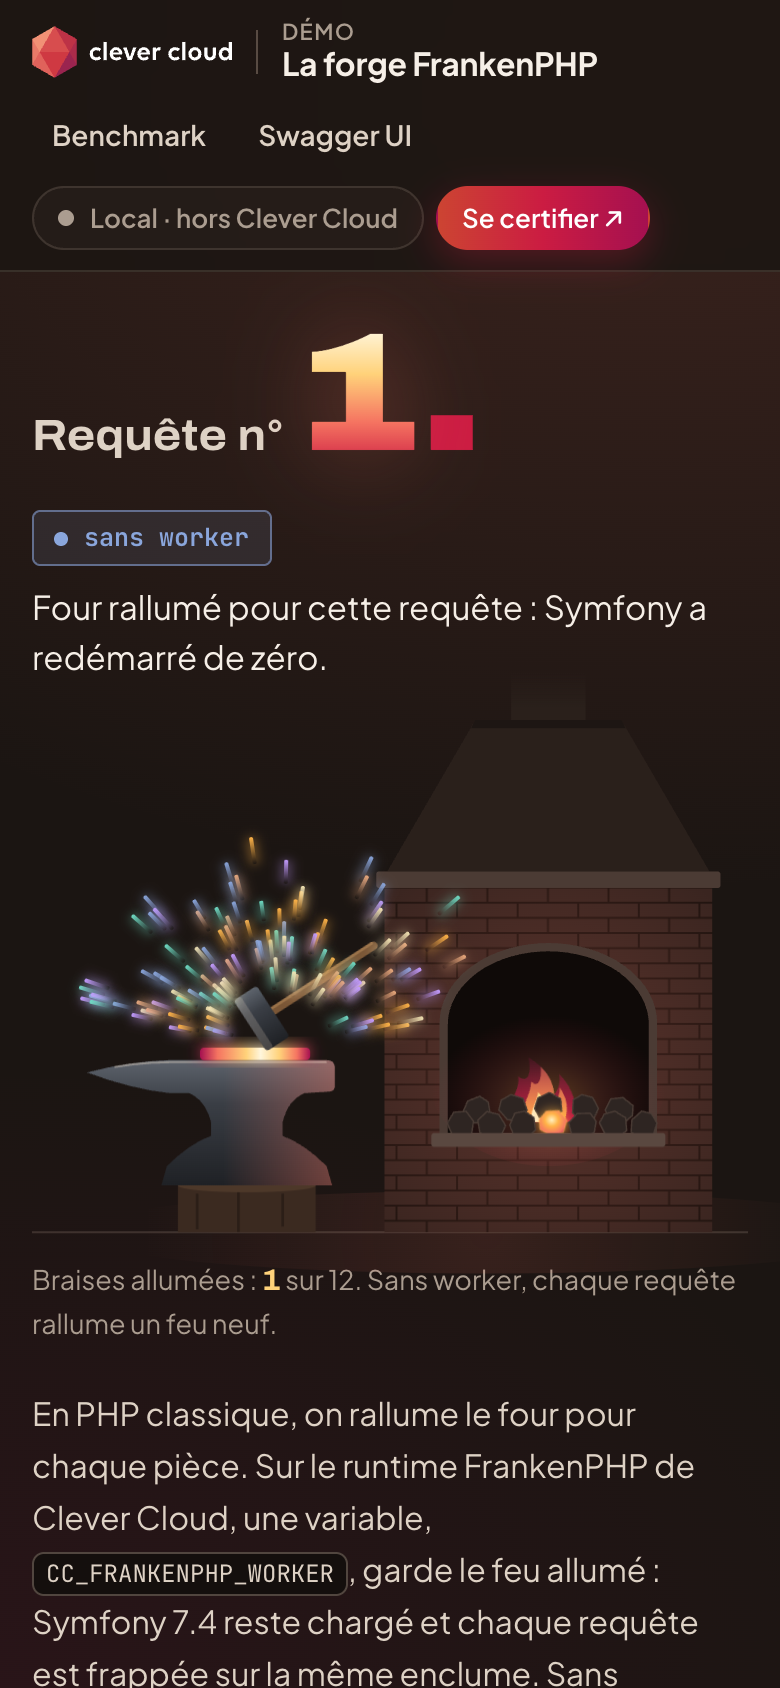
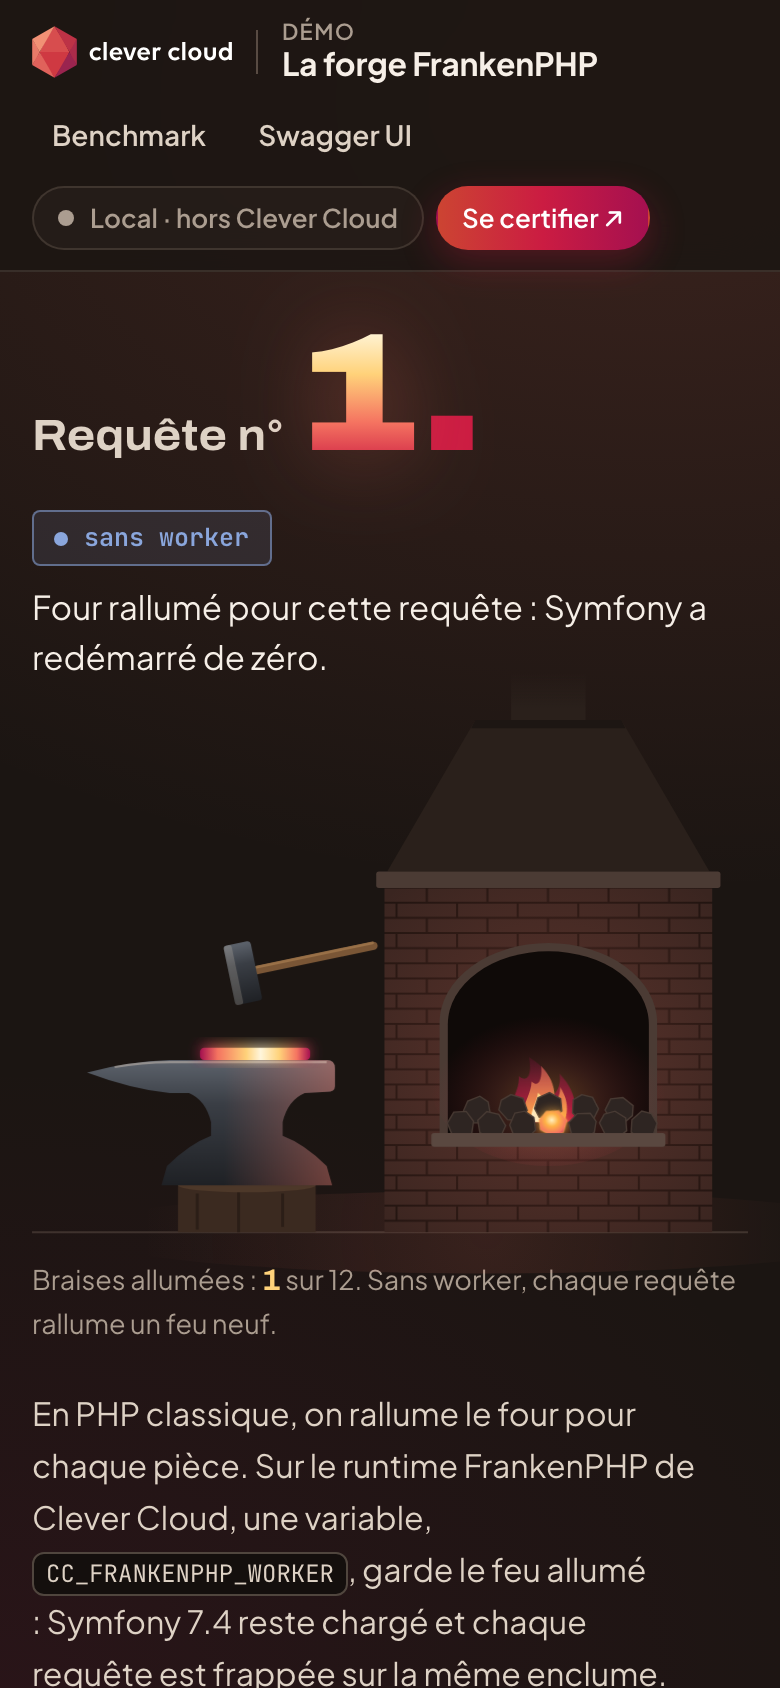
Visual review fixes and a 10-second animated tour

Changed region(s): [[0.0308, 0.955, 0.8923, 1.0], [0.0923, 0.4929, 0.5846, 0.6161]]

diff --git a/public/demo.css b/public/demo.css
@@ -95,14 +95,14 @@ code { font-family: var(--cc-mono); font-size: 0.92em; }
 .fp-chip::before { content: ""; width: 7px; height: 7px; border-radius: 50%; background: var(--wc); box-shadow: 0 0 8px var(--wc); }
 .fp-chip.is-cold { --wc: var(--f-bleui); }
 .fp-chip.is-cold::before { box-shadow: none; }
-.fp-lead { color: var(--cc-text-2); max-width: 54ch; font-size: 16px; line-height: 1.62; margin: 14px 0 22px; }
+.fp-lead { text-wrap: pretty; color: var(--cc-text-2); max-width: 54ch; font-size: 16px; line-height: 1.62; margin: 14px 0 22px; }
 .fp-cta { display: flex; flex-wrap: wrap; gap: 10px; align-items: center; }
 
 /* La forge dessinée */
 .fp-forge { margin: 0; }
 .fp-forge__art { position: relative; }
 .fp-forge__svg { width: 100%; height: auto; overflow: visible; }
-.fp-forge__caption { margin-top: 8px; font-size: 13.5px; color: var(--cc-muted); line-height: 1.5; }
+.fp-forge__caption { text-wrap: pretty; margin-top: 8px; font-size: 13.5px; color: var(--cc-muted); line-height: 1.5; }
 .fp-forge__caption b { font-family: var(--f-display); font-stretch: 110%; color: var(--f-jaune); font-size: 15px; }
 .fp-forge__flames { transform-box: fill-box; transform-origin: 50% 100%; transform: scale(calc(0.42 + var(--heat) * 0.78)); transition: transform 0.6s ease; animation: fp-ignite 1.4s cubic-bezier(0.2, 0.7, 0.2, 1) both; }
 @keyframes fp-ignite { from { transform: scale(0.04); opacity: 0; } }
@@ -145,7 +145,7 @@ code { font-family: var(--cc-mono); font-size: 0.92em; }
 .fp-pulse__head code { color: var(--cc-text); }
 .fp-pulse__budget { font-family: var(--cc-mono); font-size: 12px; color: #ff9aab; }
 .fp-pulse__plot {
-  position: relative; height: 150px; margin: 12px 0 22px;
+  position: relative; height: 150px; margin: 12px 0 34px;
   background: repeating-linear-gradient(0deg, transparent 0 29px, rgba(255, 228, 205, 0.05) 29px 30px);
 }
 /* La table de l'enclume sert de ligne de base */
@@ -169,12 +169,13 @@ code { font-family: var(--cc-mono); font-size: 0.92em; }
 .fp-boot { position: absolute; left: 50%; bottom: -19px; transform: translateX(-50%); }
 .fp-key-boot { vertical-align: -1px; }
 .fp-pulse__stats { display: grid; grid-template-columns: repeat(4, minmax(0, 1fr)); gap: 12px; margin: 0; }
-.fp-pulse__stats div { display: flex; flex-direction: column; border-top: 1px solid var(--cc-border-strong); padding-top: 8px; }
-.fp-pulse__stats dt { font-size: 12.5px; color: var(--cc-muted); line-height: 1.35; }
+/* Le chiffre d'abord, son libellé dessous : les quatre valeurs restent alignées quel que soit le libellé */
+.fp-pulse__stats div { display: flex; flex-direction: column-reverse; justify-content: flex-end; border-top: 1px solid var(--cc-border-strong); padding-top: 10px; }
+.fp-pulse__stats dt { margin-top: 4px; font-size: 12.5px; color: var(--cc-muted); line-height: 1.35; }
 .fp-pulse__stats dt small { display: block; font-size: 11.5px; }
-.fp-pulse__stats dd { margin: auto 0 0; padding-top: 4px; font-family: var(--f-display); font-stretch: 110%; font-weight: 700; font-size: clamp(20px, 2vw, 26px); color: var(--cc-text); font-variant-numeric: tabular-nums; }
+.fp-pulse__stats dd { margin: 0; line-height: 1.1; font-family: var(--f-display); font-stretch: 110%; font-weight: 700; font-size: clamp(20px, 2vw, 26px); color: var(--cc-text); font-variant-numeric: tabular-nums; }
 .fp-pulse__stats dd.is-ok { color: var(--f-patine); }
-.fp-pulse__key { margin: 12px 0 0; font-size: 12.5px; color: var(--cc-muted); line-height: 1.5; }
+.fp-pulse__key { text-wrap: pretty; margin: 14px 0 0; font-size: 12.5px; color: var(--cc-muted); line-height: 1.5; }
 .fp-pulse__legend { display: flex; flex-wrap: wrap; gap: 6px 16px; margin-top: 8px; min-height: 18px; font-family: var(--cc-mono); font-size: 12px; color: var(--cc-text-2); }
 .fp-pulse__legend span::before { content: ""; display: inline-block; width: 8px; height: 8px; border-radius: 50%; margin-right: 6px; background: var(--wc); box-shadow: 0 0 6px var(--wc); }
 .fp-pulse__legend em { font-family: var(--cc-font); font-style: normal; color: var(--cc-muted); font-size: 12.5px; }
@@ -206,7 +207,7 @@ code { font-family: var(--cc-mono); font-size: 0.92em; }
 .fp-recycle span { display: block; height: 6px; border-radius: 3px; background: linear-gradient(90deg, var(--f-cerise), var(--f-braise) 60%, var(--f-jaune)) 0 0 / var(--p) 100% no-repeat, rgba(255, 228, 205, 0.08); }
 .fp-recycle small { display: block; margin-top: 6px; font-size: 12.5px; color: var(--cc-muted); }
 .fp-recycle b { color: var(--cc-text); font-family: var(--cc-mono); font-weight: 500; }
-.fp-cold-note { margin: 14px 0 0; padding-left: 12px; border-left: 2px solid var(--f-bleui); font-size: 13.5px; line-height: 1.55; color: var(--cc-text-2); }
+.fp-cold-note { margin: 14px 0 0; padding: 10px 12px; border-radius: 4px; background: color-mix(in srgb, var(--f-bleui) 9%, transparent); font-size: 13.5px; line-height: 1.55; color: var(--cc-text-2); }
 .fp-cold-note code { overflow-wrap: anywhere; }
 
 /* Réglages de la démo et variables de la plateforme */
@@ -239,7 +240,7 @@ code { font-family: var(--cc-mono); font-size: 0.92em; }
 .fp-cert__stamp a { display: block; padding: 12px; border-radius: 50%; background: #16100d; box-shadow: inset 0 4px 14px rgba(0, 0, 0, 0.75), 0 1px 0 rgba(255, 236, 214, 0.1); }
 .fp-cert .cc-cert__badge { width: clamp(150px, 17vw, 200px); height: auto; margin: 0; animation: none; filter: drop-shadow(0 0 18px rgba(245, 116, 97, 0.35)); }
 .fp-cert__stamp figcaption { font-size: 13px; color: var(--cc-muted); text-align: center; }
-.fp-cert h2 { margin: 0; font-family: var(--f-display); font-stretch: 108%; font-size: clamp(26px, 3.2vw, 38px); font-weight: 800; line-height: 1.08; letter-spacing: -0.015em; scroll-margin-top: 90px; }
+.fp-cert h2 { text-wrap: balance; margin: 0; font-family: var(--f-display); font-stretch: 108%; font-size: clamp(26px, 3.2vw, 38px); font-weight: 800; line-height: 1.08; letter-spacing: -0.015em; scroll-margin-top: 90px; }
 .fp-cert__lead { margin: 14px 0 22px; color: var(--cc-text-2); font-size: 16px; line-height: 1.6; max-width: 58ch; }
 .fp-cert__tracks { display: grid; grid-template-columns: repeat(2, minmax(0, 1fr)); gap: 12px; margin-bottom: 22px; }
 .fp-cert__tracks a { display: block; padding: 14px 16px; border-radius: 6px; background: rgba(20, 15, 13, 0.55); border: 1px solid var(--cc-border); color: inherit; transition: border-color 0.15s ease; }
@@ -250,7 +251,7 @@ code { font-family: var(--cc-mono); font-size: 0.92em; }
 .fp-cert__cta small { color: var(--cc-muted); font-size: 13px; }
 
 /* ── Titres de section ─────────────────────────────────────────── */
-.fp-h2 { margin: 0; font-family: var(--f-display); font-stretch: 108%; font-weight: 800; font-size: clamp(26px, 3vw, 36px); line-height: 1.08; letter-spacing: -0.015em; }
+.fp-h2 { text-wrap: balance; margin: 0; font-family: var(--f-display); font-stretch: 108%; font-weight: 800; font-size: clamp(26px, 3vw, 36px); line-height: 1.08; letter-spacing: -0.015em; }
 
 /* ── Benchmark : trois barres de fer ───────────────────────────── */
 .fp-bench { margin-bottom: 72px; scroll-margin-top: 90px; }
@@ -258,9 +259,9 @@ code { font-family: var(--cc-mono); font-size: 0.92em; }
 .fp-bench__intro p { margin: 0; color: var(--cc-muted); font-size: 14px; line-height: 1.6; }
 .fp-bench__intro code { color: var(--cc-text-2); }
 .fp-bench__rows { list-style: none; margin: 0; padding: 0; }
-.fp-bench__rows li { display: grid; grid-template-columns: minmax(0, 230px) minmax(0, 1fr) auto auto; align-items: center; gap: 20px; padding: 16px 0; border-bottom: 1px dashed var(--cc-border); }
+.fp-bench__rows li { display: grid; grid-template-columns: minmax(0, 280px) minmax(0, 1fr) 190px auto; align-items: center; gap: 20px; padding: 16px 0; border-bottom: 1px dashed var(--cc-border); }
 .fp-bench__label b { display: block; font-size: 15.5px; }
-.fp-bench__label span { font-size: 13px; color: var(--cc-muted); }
+.fp-bench__label span { display: block; font-size: 13px; line-height: 1.4; color: var(--cc-muted); }
 .fp-bench__track { height: 16px; border-radius: 3px; background: #140f0d; box-shadow: inset 0 2px 5px rgba(0, 0, 0, 0.7); }
 .fp-bench__track span { display: block; height: 100%; width: var(--w); border-radius: 3px; background: linear-gradient(180deg, #8a9099, #4f545c 55%, #34373d); }
 .fp-bench__rows li.is-best .fp-bench__track span { background: linear-gradient(90deg, #a51050, #f57461 45%, #ffd27a 85%, #fff6dc); box-shadow: 0 0 16px rgba(245, 116, 97, 0.6); }
@@ -268,9 +269,10 @@ code { font-family: var(--cc-mono); font-size: 0.92em; }
 .fp-bench__val b { display: block; font-family: var(--f-display); font-stretch: 110%; font-size: 22px; font-weight: 700; }
 .fp-bench__rows li.is-best .fp-bench__val b { color: var(--f-jaune); }
 .fp-bench__val span { font-size: 12px; color: var(--cc-muted); white-space: nowrap; }
-.fp-bench__links { display: flex; gap: 12px; font-size: 13px; white-space: nowrap; }
-.fp-bench__links a { color: var(--cc-text-2); border-bottom: 1px solid var(--cc-border-strong); }
-.fp-bench__links a:hover { color: var(--f-braise); border-color: var(--f-braise); }
+.fp-bench__links { display: flex; gap: 14px; font-size: 13px; white-space: nowrap; }
+/* Zone de clic de 44 px, soulignement gardé près du texte */
+.fp-bench__links a { display: inline-flex; align-items: center; min-height: 44px; color: var(--cc-text-2); text-decoration: underline; text-decoration-color: var(--cc-border-strong); text-underline-offset: 4px; }
+.fp-bench__links a:hover { color: var(--f-braise); text-decoration-color: var(--f-braise); }
 .fp-bench__take { margin: 18px 0 0; color: var(--cc-text-2); font-size: 15px; }
 .fp-bench__take b { color: var(--cc-text); }
 
@@ -334,6 +336,10 @@ code { font-family: var(--cc-mono); font-size: 0.92em; }
   .fp-plate { padding: 20px 18px 18px; }
   .fp-announce .cc-container { flex-wrap: wrap; gap: 6px 12px; }
   .fp-shelf__rack { grid-template-columns: repeat(2, minmax(0, 1fr)); }
+  /* La dernière pièce seule garde un râtelier sur toute la largeur */
+  .fp-shelf__rack li:last-child:nth-child(odd) { grid-column: 1 / -1; }
+  .fp-cta .cc-btn { flex: 1 1 100%; }
+  .fp-bench__rows li { row-gap: 4px; }
   .fp-code { font-size: 12px; padding: 16px; }
 }
 @media (prefers-reduced-motion: reduce) {

diff --git a/public/demo.js b/public/demo.js
@@ -28,7 +28,9 @@
   var colors = {}, order = [];
 
   function set(k, v) { stats.querySelector('[data-k="' + k + '"]').textContent = v; }
-  function color(id) { return 'var(--w' + (colors[id] % 6) + ')'; }
+  var classic = fig.dataset.mode !== 'worker';
+  // Sans worker, chaque requête est un script différent : une seule teinte froide, pas six couleurs qui ne désignent personne.
+  function color(id) { return classic ? 'var(--f-bleui)' : 'var(--w' + (colors[id] % 6) + ')'; }
 
   // Le marteau frappe et une étincelle part par réponse, dans la couleur du worker qui a répondu.
   function strike(list) {
@@ -44,7 +46,7 @@
           s.style.setProperty('--a', (-170 + Math.random() * 160).toFixed(1) + 'deg');
           s.style.setProperty('--d', (40 + Math.random() * 90).toFixed(0) + 'px');
           s.style.setProperty('--t', (0.45 + Math.random() * 0.4).toFixed(2) + 's');
-          s.style.setProperty('--wc', color(r.worker));
+          if (!classic) s.style.setProperty('--wc', color(r.worker));
           s.addEventListener('animationend', function () { this.remove(); });
           sparks.appendChild(s);
         }

diff --git a/CLAUDE.md b/CLAUDE.md
@@ -35,7 +35,7 @@ Scénario : changer `ANNOUNCEMENT` ou `LATENCY_BUDGET_MS`, `clever restart`, rec
 
 ## Structure de page (accueil) — univers « la forge qui ne s'éteint jamais » (2026-11-04)
 
-topbar → bandeau `ANNOUNCEMENT` → premier écran en grille (`head` / `body` / `forge` / `pulse` / `proc`, une colonne sur mobile avec la forge juste sous le numéro) : « Requête n° N. » poinçonné en métal chaud (Archivo élargi), pastille du worker, boutons « Envoyer N requêtes » / « Se certifier » ; forge SVG (`partials/forge.svg.twig`, 12 braises allumées selon le vrai compteur : seuils 1, 2, 4… 2048, `--heat` pilote flammes et lueur) ; « La gerbe » au clic (une étincelle par réponse, échelle adaptative max(budget/4, p95×1,5), petite flamme sous la ligne quand `request === 1`, marteau qui frappe et étincelles de la couleur du worker, rien en `prefers-reduced-motion`) + 4 statistiques (« Fours rallumés » = redémarrages de Symfony) ; plaque « Le feu qui vous répond » (mode, PID, uptime, requêtes / recyclage, mémoire) → plaques « Réglages de la forge » (4 variables de démo) et « Running on Clever Cloud » (`CC_APP_NAME`, `APP_ID`, `INSTANCE_NUMBER` + `CC_PRETTY_INSTANCE_NAME`, `INSTANCE_TYPE`, `CC_COMMIT_ID` court, `CC_DEPLOYMENT_ID`, « Local » hors plateforme) → `partials/cert.html.twig` (le poinçon du maître : badge enfoncé dans la fonte, une seule inclusion par page) → benchmark k6 (barres de fer, seule celle du worker est chaude) → présentoir API (7 pièces forgées sur un râtelier, liens `/api/monsters/{id}`) → déploiement → footer. Page 404 : « Retour à la forge ».
+topbar → bandeau `ANNOUNCEMENT` → premier écran en grille (`head` / `body` / `forge` / `pulse` / `proc`, une colonne sur mobile avec la forge juste sous le numéro) : « Requête n° N. » poinçonné en métal chaud (Archivo élargi), pastille du worker, boutons « Envoyer N requêtes » / « Se certifier » ; forge SVG (`partials/forge.svg.twig`, 12 braises allumées selon le vrai compteur : seuils 1, 2, 4… 2048, `--heat` pilote flammes et lueur) ; « La gerbe » au clic (une étincelle par réponse, échelle adaptative max(budget/4, p95×1,5), petite flamme sous la ligne quand `request === 1`, marteau qui frappe et étincelles de la couleur du worker ; sans worker, une seule teinte froide `--f-bleui` pour toute la gerbe, rien en `prefers-reduced-motion`) + 4 statistiques (« Fours rallumés » = redémarrages de Symfony) ; plaque « Le feu qui vous répond » (mode, PID, uptime, requêtes / recyclage, mémoire) → plaques « Réglages de la forge » (4 variables de démo) et « Running on Clever Cloud » (`CC_APP_NAME`, `APP_ID`, `INSTANCE_NUMBER` + `CC_PRETTY_INSTANCE_NAME`, `INSTANCE_TYPE`, `CC_COMMIT_ID` court, `CC_DEPLOYMENT_ID`, « Local » hors plateforme) → `partials/cert.html.twig` (le poinçon du maître : badge enfoncé dans la fonte, une seule inclusion par page) → benchmark k6 (barres de fer, seule celle du worker est chaude) → présentoir API (7 pièces forgées sur un râtelier, liens `/api/monsters/{id}`) → déploiement → footer. Page 404 : « Retour à la forge ».
 
 ## Fichiers clés
 

diff --git a/README.md b/README.md
@@ -2,6 +2,8 @@
 
 > In classic PHP, the furnace is relit for every piece; in worker mode, the fire never goes out. A Symfony 7.4 app on the **FrankenPHP runtime** of Clever Cloud, without a Dockerfile, in **worker mode**: one variable, `CC_FRANKENPHP_WORKER`, keeps the Symfony kernel in memory between requests instead of booting it for each one. The page is a blacksmith's forge drawn in SVG. "Requête n° 214." is stamped in hot metal: the real number of requests the PHP worker answering you has already served. The hearth lights one more coal each time that number doubles. A button fires 40 requests at `/worker`: the hammer strikes, one spark flies per response, and each one lands in a measured spark chart (server time, worker, Symfony restarts). Below: the Clever Cloud Academy hallmark, k6 measurements of the same page served three ways, drawn as iron bars, and a read-only API Platform API on SQLite whose monsters hang on the smith's display rack. No add-on.
 
+![Animated tour, run locally with php -S (classic mode, not worker mode): a click on "Envoyer 40 requêtes" fires two bursts at /worker, the hammer strikes the anvil, sparks fly, and the spark chart fills with one spark per response and a relit-furnace flame under each](docs/tour.gif)
+
 ![The forge run locally with php -S, so in classic mode, not worker mode: "Requête n° 1.", the "sans worker" chip, a single lit coal in the hearth, the hammer striking during a burst with sparks flying from the anvil, the spark chart of the 40 requests with a relit-furnace flame under each one (40 Symfony restarts), and the process plate](docs/screenshot-desktop.png)
 
 <img src="docs/screenshot-phone.png" alt="The same first screen on a phone, run locally with php -S (classic mode, not worker mode): the request number, the forge and sparks flying from the anvil during a burst" width="300">
